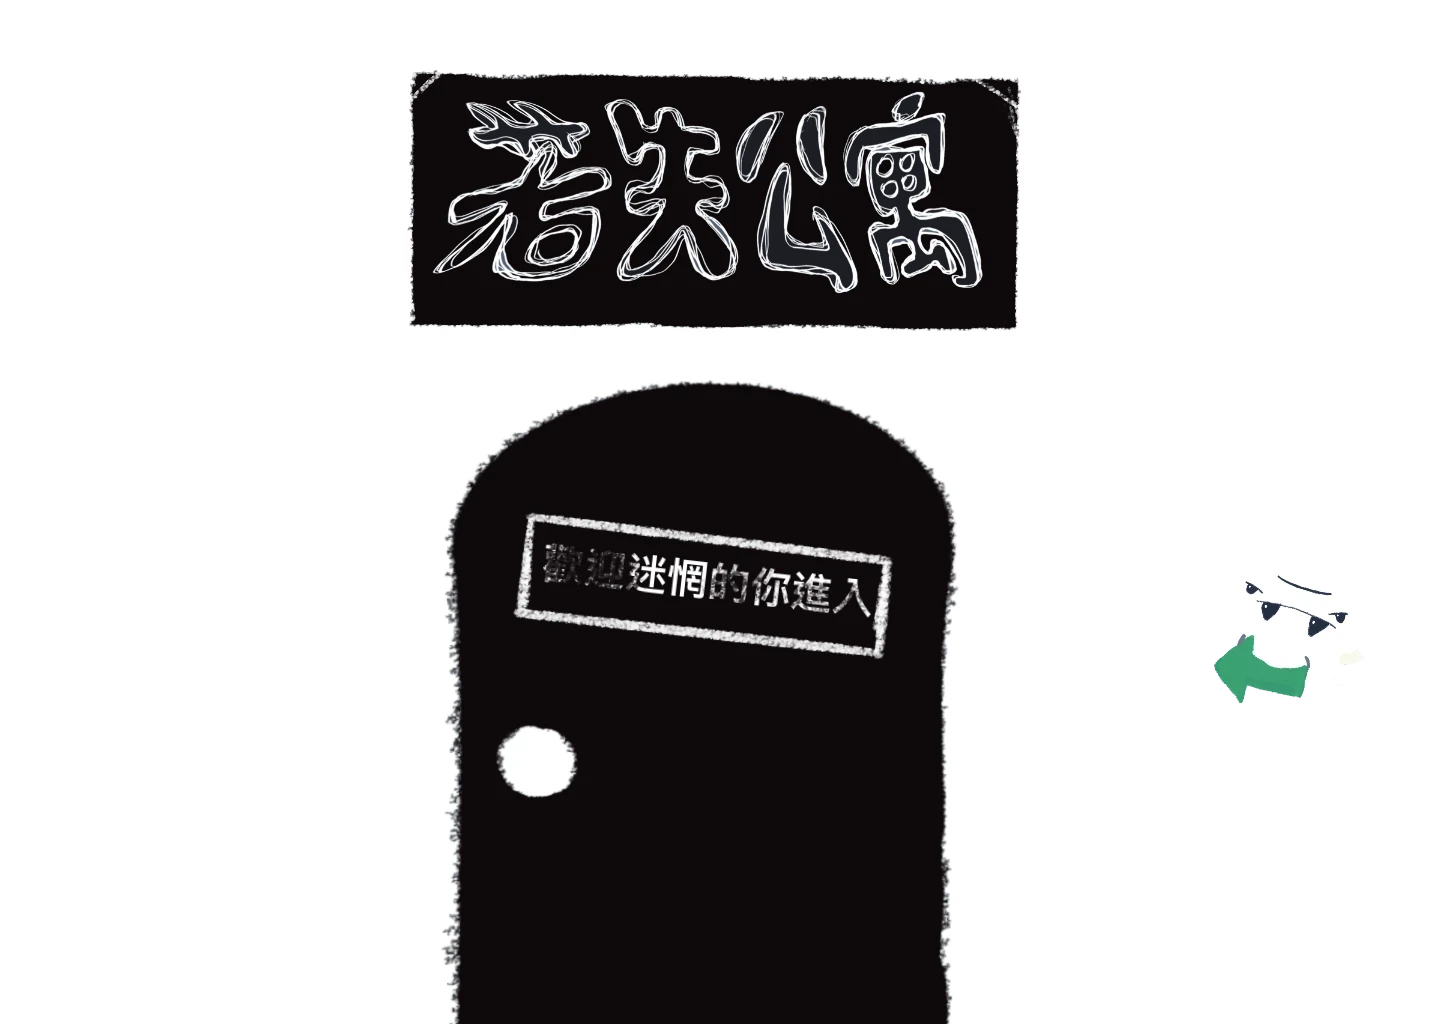
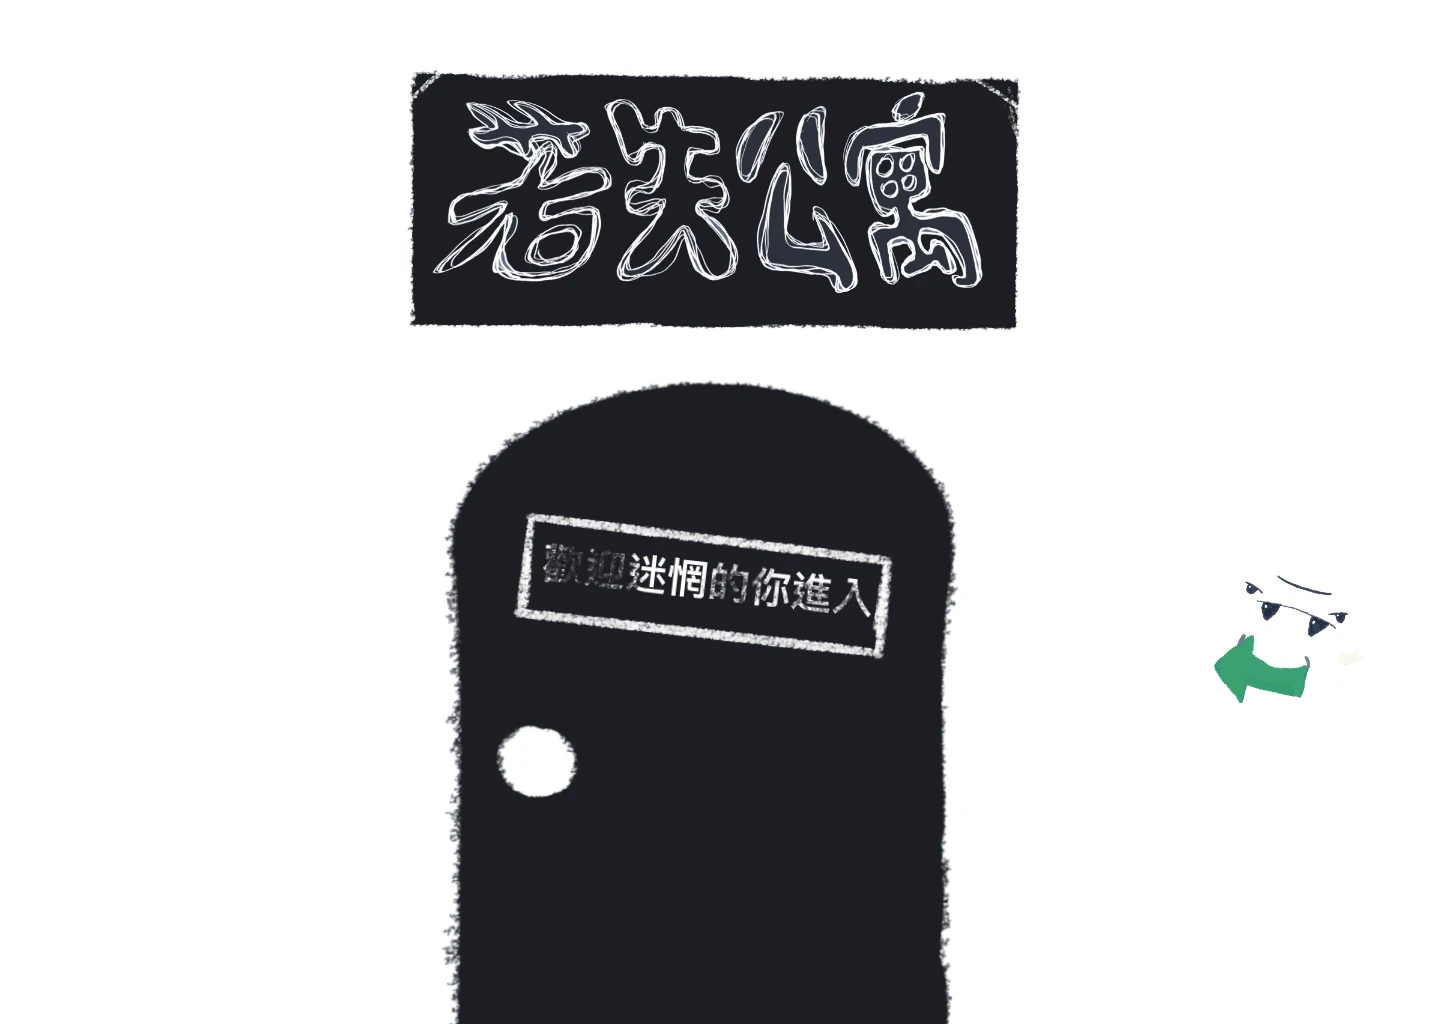
更新動畫和字體大小

Changed region(s): [[0.3125, 0.375, 0.6562, 1.0], [0.2812, 0.0625, 0.7188, 0.3438]]

diff --git a/script.js b/script.js
@@ -42,6 +42,42 @@ if (document.querySelector(".definition-item")) {
     }
 }
 
+// 開門動畫：門開到哪裡跟著捲動位置走，往下捲慢慢打開，往上捲關回去
+const doorScene = document.querySelector(".door-scene");
+if (doorScene) {
+    const doorAnim = doorScene.querySelector(".door-anim");
+    const DOOR_FRAMES = 25; // 總共 25 格畫面
+    const DOOR_COLS = 5;    // 大圖上一排 5 格
+    const DOOR_ROWS = 5;    // 總共 5 排
+    let currentFrame = -1;  // 目前顯示的是第幾格，一樣的話就不用重設
+
+    function updateDoor() {
+        const rect = doorScene.getBoundingClientRect();
+        const center = rect.top + rect.height / 2; // 場景中心點離螢幕上緣多遠
+
+        // 場景中心在螢幕 80% 高度時開始開門，捲到 40% 高度時完全打開
+        const startLine = window.innerHeight * 0.8;
+        const endLine = window.innerHeight * 0.4;
+
+        // 換算成 0（關著）到 1（全開）之間的進度，超出範圍就固定在 0 或 1
+        let progress = (startLine - center) / (startLine - endLine);
+        progress = Math.min(1, Math.max(0, progress));
+
+        const frame = Math.round(progress * (DOOR_FRAMES - 1));
+        if (frame === currentFrame) return;
+        currentFrame = frame;
+
+        // 把「第幾格」換算成它在 5 × 5 大圖上的位置
+        const x = (frame % DOOR_COLS) / (DOOR_COLS - 1) * 100;
+        const y = Math.floor(frame / DOOR_COLS) / (DOOR_ROWS - 1) * 100;
+        doorAnim.style.backgroundPosition = `${x}% ${y}%`;
+    }
+
+    window.addEventListener("scroll", updateDoor, { passive: true }); // 每次捲動都更新
+    window.addEventListener("resize", updateDoor);                    // 視窗大小改變時也更新
+    updateDoor();                                                     // 頁面載入時先算一次
+}
+
 // 首頁導覽列：捲到哪個段落，對應的按鈕就變色
 const aboutLostSection = document.getElementById("about-lost");
 const reservationSection = document.getElementById("reservation-section");

diff --git a/style.css b/style.css
@@ -366,6 +366,43 @@ html {
     letter-spacing: 1.2px;
 }
 
+/* ===== 開門動畫 ===== */
+/* 場景的外框，比例跟原圖一樣（1440 × 1024） */
+.door-scene {
+    position: relative;
+    width: min(100%, 900px);     /* 場景的寬度，最寬 900px */
+    aspect-ratio: 1440 / 1024;
+    margin: 0 auto 300px;        /* 水平置中，下方跟「若失公寓」介紹留 300px */
+}
+
+/* 底圖：完整的場景（磚牆、蜘蛛網、招牌、關著的門），不會動 */
+.door-scene-base {
+    position: absolute;
+    inset: 0;
+    width: 100%;
+    height: 100%;
+    display: block;
+}
+
+/* 會動的只有門洞這一塊，用百分比定位，場景放大縮小時位置都會對準。
+   數字的來源：這一塊在原圖上是 x 432~972、y 368~1024，除以原圖的寬 1440、高 1024 */
+.door-anim {
+    position: absolute;
+    left: 30%;                   /* 432 ÷ 1440 */
+    top: 35.9375%;               /* 368 ÷ 1024 */
+    width: 37.5%;                /* 540 ÷ 1440 */
+    height: 64.0625%;            /* 656 ÷ 1024 */
+
+    /* 25 格畫面排成 5 × 5 的一張大圖，一次只露出其中一格；一開始是第一格（關著的門） */
+    background-image: url(assets/door-sprite.webp);
+    background-size: 500% 500%;
+    background-position: 0% 0%;
+    background-repeat: no-repeat;
+}
+
+/* 要顯示哪一格由 script.js 依捲動位置決定：往下捲門慢慢打開，往上捲門關回去 */
+/* ===== 開門動畫結束 ===== */
+
 .lost-intro {
     margin-bottom: 200px;
     margin: auto;
@@ -1353,6 +1390,11 @@ footer a {
         font-weight: 300;
         line-height: 30px; /* 187.5% */
         letter-spacing: 0.8px;
+    }
+
+    /* 開門動畫（手機版）：下方的距離縮小 */
+    .door-scene {
+        margin-bottom: 120px;
     }
 
     .lost-intro {

diff --git a/index.html b/index.html
@@ -151,6 +151,12 @@
             <p>迷惘的你，並不孤單。</p>
         </div>
 
+        <!-- 開門動畫：底圖是完整場景，上面疊一塊會換格的門；script.js 會依捲動位置決定門開到哪裡 -->
+        <div class="door-scene">
+            <img class="door-scene-base" src="assets/door-open-1.webp" alt="若失公寓的門，門上寫著歡迎迷惘的你進入">
+            <div class="door-anim" aria-hidden="true"></div>
+        </div>
+
         <div class="lost-intro">
             <h1>若失公寓</h1>
             <div class="intro">

diff --git a/faq.css b/faq.css
@@ -181,8 +181,16 @@ h1 {
     font-weight: 600;
     line-height: normal;
     letter-spacing: 1.2px;
+    text-align: left;            /* 按鈕裡的文字預設會置中，問題換行時每一行都會跑到中間，這裡改成靠左 */
     padding: 20px 30px;
 }
+
+/* 問題的文字：佔滿加號以外的寬度，靠左對齊 */
+.faq-question .question {
+    flex: 1;
+    text-align: left;
+}
+
 
 .faq-icon {
     display: inline-flex; 

diff --git a/about-us.css b/about-us.css
@@ -699,12 +699,12 @@ footer a {
     }
 
     .why-section p {
-        font-size: 1rem;
+        font-size: calc(16 * var(--u));      /* 跟上面的小標用同一種寫法，兩者才會一起縮放、大小一致 */
         font-weight: 400;
         margin-left: 20px;
         margin-right: 20px;
         text-align: left;
-        line-height: 30px;
+        line-height: calc(30 * var(--u));
     }
 
     .phone-people {
